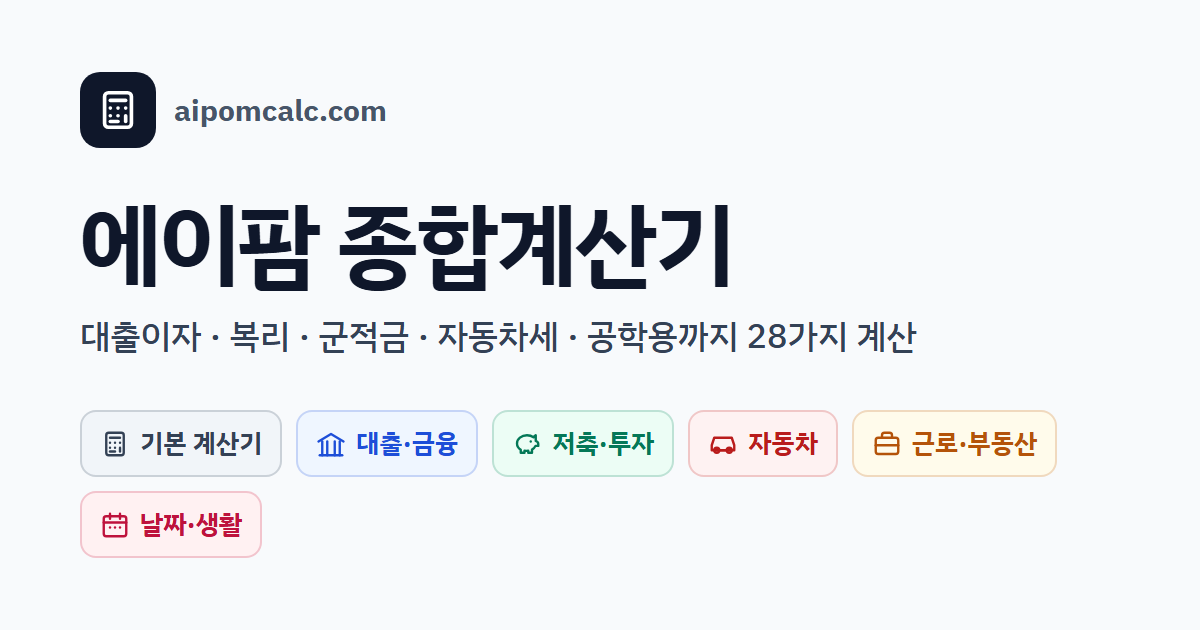
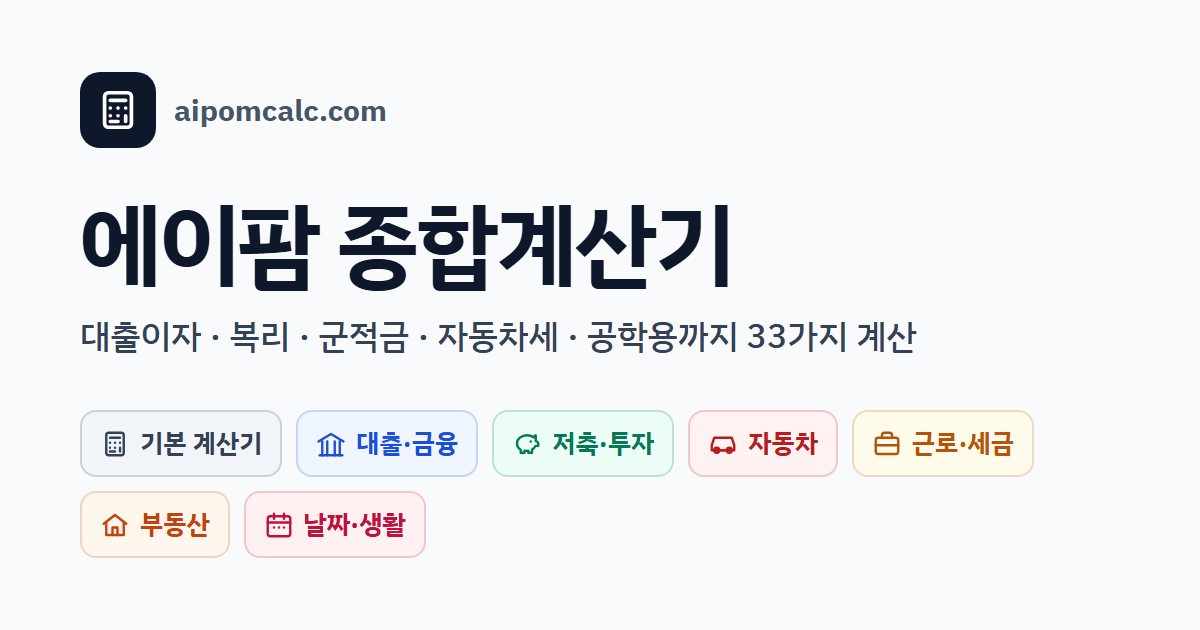
계산기 사이트: 구글 애널리틱스 태그, 문의 폼·감사 페이지(평균 1일 이내 답변), 계산기별 공유 썸네일, 전 계산기 FAQ 3개+, 개인정보처리방침 개정, 종소세 카드 제목 축약

Changed region(s): [[0.0617, 0.754, 0.3392, 0.9048], [0.8017, 0.6635, 0.8633, 0.7238], [0.6167, 0.5127, 0.6783, 0.573]]

diff --git a/sites/calc/faq-more.js b/sites/calc/faq-more.js
@@ -1,0 +1,60 @@
+// 자주 묻는 질문 보강 (2026-10-22) — 모든 계산기 최소 3개. 답은 각 페이지 basis·tips·출처에 있는 사실만.
+// pages.js 가 불러와 기존 faq 뒤에 붙인다. 계산기별 기존 질문과 겹치지 않게 쓴다.
+module.exports = {
+  basic: [['계산 기록은 어디에 저장되나요?', '이 기기의 브라우저에만 저장됩니다. 사이트 아래 "저장 기록 지우기"로 언제든 지울 수 있습니다.']],
+  scientific: [['deg와 rad 중 무엇을 써야 하나요?', '각도를 도(°)로 쓰면 deg, 라디안(π 단위)으로 쓰면 rad를 고르세요. deg에서 sin(30)은 0.5입니다.']],
+  dsr: [['DSR 40%는 무슨 뜻인가요?', '1년 동안 갚는 모든 대출 원리금이 연소득의 40%라는 뜻입니다. 연소득 5천만 원이면 연 2천만 원입니다.'],
+    ['은행 계산과 다른 이유는?', '은행은 대출 종류별 만기 가정과 스트레스 금리 등 감독 규정을 적용합니다. 이 계산기는 각 대출의 첫 1년 원리금으로 단순 계산합니다.']],
+  prepay: [['부과 기간이 지나면 수수료는요?', '대출받은 뒤 지난 기간이 수수료 부과 기간(예: 36개월) 이상이면 수수료는 0원으로 계산됩니다.'],
+    ['수수료가 면제되는 경우도 있나요?', '상품마다 다릅니다. 연간 일정 금액까지 면제하는 상품도 있으니 대출 계약서·상품설명서를 확인하세요.']],
+  installment: [['무이자 할부도 계산되나요?', '수수료율을 0%로 넣으면 원금 ÷ 개월 수가 그대로 월 납입금이 됩니다.'],
+    ['할부 수수료율은 어디서 보나요?', '카드사 앱·홈페이지의 할부 수수료율 안내나 이용대금 명세서에서 확인할 수 있습니다.']],
+  savings: [['적금 이자가 생각보다 적은 이유는?', '매달 넣은 돈마다 이자 받는 기간이 달라, 마지막 회차는 1개월 이자만 받기 때문입니다. 12개월 적금의 세전 이자는 총 납입액 × 연 이율 × 13/24 정도입니다.'],
+    ['예금과 적금 중 어느 쪽 이자가 많나요?', '같은 금리·같은 총액이면 처음부터 전액이 이자를 받는 예금이 더 많습니다.']],
+  compound: [['72의 법칙이 뭔가요?', '72를 연 수익률(%)로 나누면 원금이 두 배가 되는 대략의 햇수입니다. 연 6%면 약 12년입니다.']],
+  military: [['한 달에 최대 얼마까지 넣을 수 있나요?', '개인 기준 월 55만 원까지이고, 계좌당 월 30만 원, 1인 2계좌(같은 은행 불가)입니다.']],
+  'car-loan': [['유예(잔가) 할부도 계산되나요?', '아니요. 마지막에 큰 금액을 내는 유예 할부는 계산 방식이 달라 금융사 견적서를 확인하세요.'],
+    ['취득세·보험료도 포함인가요?', '아니요. 취득세·탁송료·보험료는 별도입니다. 취득세는 <a href="/car-acq/">자동차 취등록세 계산기</a>로 계산할 수 있습니다.']],
+  'car-tax': [['전기차 자동차세는 얼마인가요?', '전기·수소차 등 "그 밖의 승용자동차"는 비영업용 연 10만 원이고, 지방교육세 30%가 함께 붙습니다.']],
+  severance: [['1년 미만 일하면 퇴직금이 없나요?', '네. 계속 근로 기간이 1년 미만이면 법정 퇴직금 지급 의무가 없습니다.']],
+  rent: [['기준금리는 어디서 확인하나요?', '한국은행 홈페이지의 기준금리 추이에서 확인할 수 있습니다. 기준금리가 바뀌면 입력값을 바꿔 넣으세요.'],
+    ['새 계약에도 이 상한이 적용되나요?', '아니요. 계약 기간 중 보증금을 월세로 바꿀 때 적용됩니다. 새 계약은 당사자 합의로 정합니다.']],
+  area: [['1평은 몇 ㎡인가요?', '1평은 400/121㎡, 약 3.3058㎡입니다.'],
+    ['34평형 아파트의 전용면적은?', '"34평형"은 보통 공용면적을 더한 공급면적 기준이고, 전용면적은 84㎡(약 25.4평)인 경우가 많습니다.'],
+    ['공식 서류에 평을 써도 되나요?', '법정 단위는 ㎡입니다. 평은 참고용 환산값으로만 쓰세요.']],
+  dday: [['100일은 언제인가요?', '시작일을 1일째로 세면 시작일 + 99일이 100일째입니다.'],
+    ['D-day와 D-1은 어떻게 달라요?', '목표일 당일이 D-day(D-0)이고, 그 하루 전이 D-1입니다.'],
+    ['윤년도 반영되나요?', '네. 2월 29일이 있는 해를 포함해 실제 달력으로 셉니다.']],
+  age: [['만 나이는 언제부터 쓰나요?', '2023년 6월 28일부터 법령·계약·공문서의 나이는 원칙적으로 만 나이입니다(행정기본법 제7조의2).'],
+    ['연 나이는 어디에 쓰나요?', '병역법·청소년보호법 등 일부 법은 "올해 − 출생 연도"인 연 나이를 씁니다.'],
+    ['생일 당일에 나이가 바뀌나요?', '네. 만 나이는 생일 당일부터 한 살 늘어납니다.']],
+  percent: [['%와 %p는 뭐가 다른가요?', '금리 3%가 4%가 되면 1%p 오른 것이고, 비율로는 약 33% 오른 것입니다.'],
+    ['할인을 두 번 받으면 몇 %인가요?', '10% 할인 후 10%를 더 할인하면 총 19% 할인입니다(0.9 × 0.9 = 0.81).']],
+  charcount: [['자기소개서는 공백 포함인가요?', '대부분 공백 포함 기준이지만 기관마다 다르니 공고문을 먼저 확인하세요.'],
+    ['바이트 수가 두 개인 이유는?', 'UTF-8에서는 한글 1자가 3바이트이고, 문자 메시지 등에서 쓰는 방식은 한글 1자를 2바이트로 셉니다. 두 값을 함께 보여 드립니다.']],
+  refinance: [['본전 회수 기간이 뭔가요?', '갈아탈 때 드는 수수료와 비용을 줄어든 월 상환액으로 나눈 기간입니다. 이보다 오래 갚을 계획이면 이득입니다.'],
+    ['수수료 부과 기간이 곧 끝나면?', '몇 달만 기다리면 수수료가 줄거나 없어지므로 기다렸다 갈아타는 편이 나을 수 있습니다. "부과 기간 남은 개월"을 바꿔 비교해 보세요.']],
+  goal: [['수익률은 얼마로 넣어야 하나요?', '예·적금 금리 수준으로 보수적으로 넣으세요. 투자 수익률은 보장되지 않습니다.'],
+    ['세금도 반영되나요?', '아니요. 이자소득세(일반 15.4%)는 빠져 있어 실제로는 조금 더 모아야 합니다.'],
+    ['기간을 늘리면 얼마나 줄어드나요?', '결과 아래 "기간별 필요 월 적립액" 표에서 3~20년을 한눈에 비교할 수 있습니다.']],
+  avgprice: [['평단가는 어떻게 계산하나요?', '총 매입액을 총 수량으로 나눕니다. 1만 원에 10주, 8천 원에 10주를 샀다면 평단가는 9천 원입니다.'],
+    ['수수료와 세금도 포함되나요?', '아니요. 매매 수수료와 세금은 빠져 있어 실제 손익은 증권사 앱에서 확인하세요.'],
+    ['물타기를 하면 무조건 유리한가요?', '평단가는 내려가지만 투자 금액과 위험도 함께 커집니다. 이 계산기는 계산 도구이며 투자 권유가 아닙니다.']],
+  'car-acq': [['차량 가격은 부가세 포함인가요?', '아니요. 부가세를 뺀 공급가액(할인 반영)으로 계산합니다. 계약서의 공급가액을 넣으세요.'],
+    ['경차는 취득세가 없나요?', '취득세가 75만 원까지 감면되어, 차값이 약 1,875만 원 이하면 0원입니다.'],
+    ['공채 비용도 포함인가요?', '아니요. 지역개발·도시철도 공채 비용은 지역마다 달라 빠져 있습니다.']],
+  salary: [['비과세 식대는 얼마까지인가요?', '2026년 기준 식대는 월 20만 원까지 비과세입니다. "월 비과세액"에 넣으세요.']],
+  unemployment: [['하루 최대 얼마를 받나요?', '2026년 1일 상한은 68,100원입니다. 평균임금의 60%가 이보다 많아도 68,100원을 받습니다.'],
+    ['언제까지 신청해야 하나요?', '퇴사 다음 날부터 12개월 안에만 받을 수 있어, 퇴사 후 바로 고용24에서 신청하는 것이 좋습니다.']],
+  vat: [['합계금액에서 부가세만 빼려면?', '합계를 1.1로 나누면 공급가액이고, 합계 − 공급가액이 부가세입니다. 110만 원이면 공급가액 100만 원, 부가세 10만 원입니다.'],
+    ['"부가세 별도"는 무슨 뜻인가요?', '표시된 금액이 공급가액이라 10%를 더 내야 한다는 뜻입니다.'],
+    ['간이과세자도 10%인가요?', '간이과세자의 실제 납부세액은 업종별 부가가치율을 적용해 따로 계산합니다.']],
+  subscription: [['만점은 몇 점인가요?', '무주택 기간 32점 + 부양가족 35점 + 통장 가입기간 17점 = 84점입니다.'],
+    ['배우자 통장 기간도 더하나요?', '네. 배우자 통장 가입기간 점수의 50%(최대 3점)를 더하되, 통장 점수 합계는 17점을 넘지 않습니다.']],
+  bmi: [['정상 BMI는 얼마인가요?', '대한비만학회 기준 18.5~22.9가 정상이고, 25 이상이 비만입니다.'],
+    ['근육이 많으면 어떻게 나오나요?', 'BMI는 근육과 지방을 구분하지 못해 근육이 많으면 비만으로 나올 수 있습니다. 허리둘레도 함께 보세요.'],
+    ['복부비만 기준은?', '허리둘레 남성 90cm, 여성 85cm 이상입니다(대한비만학회).']],
+  winrate: [['KBO 승률은 어떻게 계산하나요?', '무승부를 빼고 승 ÷ (승 + 패)로 계산합니다. "빼고 계산 (KBO 방식)"을 고르세요.']],
+  brokerage: [['중개보수는 누가 내나요?', '거래 양쪽(파는 사람과 사는 사람, 집주인과 세입자)이 각각 상한 안에서 냅니다.']],
+  electricity: [['7·8월엔 왜 덜 나오나요?', '하계에는 누진 구간이 1단계 300kWh, 2단계 450kWh까지로 넓어져 같은 사용량에도 낮은 단가가 적용됩니다.']],
+};

diff --git a/sites/calc/pages.js b/sites/calc/pages.js
@@ -18,15 +18,18 @@ module.exports = [
   { slug: 'about', short: '사이트 소개', title: '사이트 소개 | 에이팜 종합계산기', desc: '에이팜 종합계산기 소개와 계산 원칙.', h1: '사이트 소개',
     summary: '생활 속 돈·날짜 계산을 빠르고 정확하게 하도록 만든 무료 계산기 모음입니다.',
     tips: [['계산식 공개', '모든 계산기 아래 "계산 기준"에 식과 가정을 적어 둡니다.'], ['출처 확인', '법정 기준·정부 제도는 법령·기관 안내로 확인한 값만 씁니다.'], ['내 기기에서만', '입력값은 서버로 보내지 않고 브라우저 안에서 계산·저장합니다.'], ['자동 검산', '공개된 예시값으로 계산 결과를 매번 테스트합니다.']],
-    extra: `<section class="card"><h2>문의</h2><p>오류 제보·제안·기타 문의: <a href="mailto:${CONTACT}">${CONTACT}</a></p></section>` },
-  { slug: 'privacy', short: '개인정보처리방침', title: '개인정보처리방침 | 에이팜 종합계산기', desc: '에이팜 종합계산기 개인정보처리방침.', h1: '개인정보처리방침',
-    summary: '시행일: 2026년 10월 21일',
+    extra: `<section class="card"><h2>문의</h2><p>오류 제보·계산기 제안·기타 문의는 <a href="/contact/">문의하기</a>에서 보내 주세요. 평균 1일 이내에 답변드립니다. 이메일: <a href="mailto:${CONTACT}">${CONTACT}</a></p></section>` },
+  { slug: 'privacy', short: '개인정보처리방침', title: '개인정보처리방침 | 에이팜 종합계산기', desc: '에이팜 종합계산기 개인정보처리방침 — 수집 항목, 문의 처리, 쿠키·광고, 방문 통계.', h1: '개인정보처리방침',
+    summary: '시행일: 2026년 10월 22일',
     extra: `<section class="card prose">
-<h2>1. 수집하는 개인정보</h2><p>회원가입이 없으며 계산기 입력값을 수집·전송하지 않습니다. 즐겨찾기·최근 사용·입력값·계산 기록은 이용자 브라우저 저장소(localStorage)에만 남고, 브라우저 설정이나 사이트의 "저장 기록 지우기"로 언제든 지울 수 있습니다.</p>
-<h2>2. 쿠키와 광고</h2><p>Google AdSense 등 제3자 광고를 게재할 수 있습니다. 이 경우 Google을 포함한 제3자 공급업체가 쿠키를 사용해 이용자의 이 사이트 및 다른 사이트 방문 기록을 바탕으로 광고를 게재할 수 있습니다. <a href="https://adssettings.google.com" rel="noopener">Google 광고 설정</a>에서 맞춤 광고를 끌 수 있습니다.</p>
-<h2>3. 방문 통계</h2><p>개인을 식별하지 않는 통계 도구를 쓸 수 있으며, 도입 시 이 방침에 이름을 추가합니다.</p>
-<h2>4. 문의</h2><p><a href="mailto:${CONTACT}">${CONTACT}</a></p>
-<h2>5. 변경</h2><p>방침이 바뀌면 이 페이지에 시행일과 함께 공지합니다.</p></section>` },
+<h2>1. 계산기 이용</h2><p>회원가입이 없으며 계산기 입력값을 수집·전송하지 않습니다. 즐겨찾기·최근 사용·입력값·계산 기록은 이용자 브라우저 저장소(localStorage)에만 남고, 브라우저 설정이나 사이트 아래 "저장 기록 지우기"로 언제든 지울 수 있습니다.</p>
+<h2>2. 문의하기로 받는 정보</h2><p><b>항목</b>: 답변 받을 이메일(필수), 이름(선택), 문의 종류·관련 계산기·문의 내용. <b>목적</b>: 문의 확인과 답변. <b>보관</b>: 답변을 마친 뒤 1년 이내에 지웁니다. 이용자가 요청하면 바로 지웁니다.</p>
+<p><b>처리 위탁</b>: 문의 양식은 FormSubmit(formsubmit.co)을 거쳐 운영자 이메일(Gmail)로 전달됩니다. 동의하지 않으면 문의를 보내지 않거나 이메일(<a href="mailto:${CONTACT}">${CONTACT}</a>)로 직접 보내실 수 있습니다.</p>
+<h2>3. 쿠키와 광고</h2><p>Google AdSense 등 제3자 광고를 게재할 수 있습니다. 이 경우 Google을 포함한 제3자 공급업체가 쿠키를 사용해 이용자의 이 사이트 및 다른 사이트 방문 기록을 바탕으로 광고를 게재할 수 있습니다. <a href="https://adssettings.google.com" rel="noopener">Google 광고 설정</a>에서 맞춤 광고를 끌 수 있습니다.</p>
+<h2>4. 방문 통계</h2>${process.env.GA_ID ? '<p>사이트 개선을 위해 Google 애널리틱스 4를 씁니다. 쿠키로 방문 페이지, 머문 시간, 기기·브라우저 종류, 대략적인 지역 같은 정보를 모으며 이름·이메일 등 개인을 바로 알아볼 수 있는 정보는 모으지 않습니다. <a href="https://tools.google.com/dlpage/gaoptout" rel="noopener">Google 애널리틱스 차단 부가 기능</a>이나 브라우저 쿠키 설정으로 거부할 수 있습니다.</p>' : '<p>현재 방문 통계 도구를 쓰지 않습니다. 도입하면 이 방침에 이름과 수집 항목을 추가합니다.</p>'}
+<h2>5. 이용자의 권리</h2><p>문의하며 보낸 정보의 열람·정정·삭제를 <a href="/contact/">문의하기</a>나 이메일로 요청할 수 있습니다.</p>
+<h2>6. 문의</h2><p><a href="/contact/">문의하기</a> · <a href="mailto:${CONTACT}">${CONTACT}</a> (평균 1일 이내 답변)</p>
+<h2>7. 변경</h2><p>방침이 바뀌면 이 페이지에 시행일과 함께 공지합니다.</p></section>` },
 
   // ── 기본 계산기 ──
   { slug: 'basic', calc: 'basic', cat: 'basic', tone: 'slate', icon: 'calculator', short: '일반 계산기', lead: '휴대폰 계산기처럼 바로 계산', pad: 'basic',
@@ -165,4 +168,29 @@ module.exports = [
     basis: ['만 나이: 행정기본법 제7조의2(2023.6.28 시행). 연 나이 = 기준 연도 − 출생 연도, 세는 나이 = 연 나이 + 1.'] },
 ];
 module.exports.push(...require('./pages-more')(f, sel, form));
+const FAQ_MORE = require('./faq-more'); // 모든 계산기 FAQ 최소 3개
+for (const p of module.exports) if (FAQ_MORE[p.slug]) p.faq = [...(p.faq || []), ...FAQ_MORE[p.slug]];
+const CALC_OPTS = module.exports.filter((p) => p.calc).map((p) => `<option value="${p.short}" data-slug="${p.slug}">${p.short}</option>`).join('');
+const SITE = (process.env.SITE_URL || 'https://aipomcalc.com').replace(/\/$/, '');
+module.exports.push(
+  { slug: 'contact', short: '문의하기', title: '문의하기 | 에이팜 종합계산기', desc: '계산 오류 제보, 새 계산기 제안, 광고·제휴 문의를 보내 주세요. 평균 1일 이내에 답변드립니다.', h1: '문의하기',
+    summary: '계산이 틀렸거나 바라는 계산기가 있으면 알려 주세요. <b>평균 1일 이내</b>에 이메일로 답변드립니다.',
+    extra: `<section class="card"><form class="contact" action="https://formsubmit.co/${CONTACT}" method="POST">
+<input type="hidden" name="_subject" value="[에이팜 종합계산기] 새 문의"><input type="hidden" name="_template" value="table"><input type="hidden" name="_next" value="${SITE}/contact/thanks/">
+<input type="text" name="_honey" class="hp" tabindex="-1" autocomplete="off" aria-hidden="true">
+<div class="form">
+<label class="f"><span class="fl">답변 받을 이메일 (필수)</span><input id="c-email" type="email" name="email" required autocomplete="email" placeholder="you@example.com"></label>
+<label class="f"><span class="fl">이름 (선택)</span><input id="c-name" type="text" name="이름" autocomplete="name"></label>
+<label class="f"><span class="fl">문의 종류</span><select id="c-kind" name="문의 종류"><option>계산 오류 제보</option><option>새 계산기 제안</option><option>사용 중 불편한 점</option><option>광고·제휴</option><option>기타</option></select></label>
+<label class="f"><span class="fl">관련 계산기 (선택)</span><select id="c-calc" name="관련 계산기"><option value="">선택 안 함</option>${CALC_OPTS}</select></label>
+<label class="f wide"><span class="fl">문의 내용 (필수)</span><textarea id="c-msg" name="문의 내용" rows="8" required minlength="10" placeholder="예: 연봉 5,000만 원을 넣었는데 실수령액이 회사 명세서와 3만 원 차이가 나요."></textarea></label>
+</div>
+<label class="agree"><input id="c-agree" type="checkbox" name="개인정보 수집 동의" value="동의함" required><span>답변을 위해 이메일·문의 내용을 수집하는 데 동의합니다. (<a href="/privacy/">개인정보처리방침</a> — 답변 후 1년 이내 삭제)</span></label>
+<p><button class="btn" type="submit">문의 보내기</button></p>
+<p class="muted">보내기를 누르면 스팸 방지 확인 화면이 한 번 나올 수 있습니다. 이메일로 직접 보내셔도 됩니다: <a href="mailto:${CONTACT}">${CONTACT}</a></p>
+</form></section>` },
+  { slug: 'contact/thanks', short: '문의 완료', noindex: true, title: '문의를 보냈어요 | 에이팜 종합계산기', desc: '문의가 접수되었습니다.', h1: '문의를 보냈어요. 감사합니다!',
+    summary: '보내 주신 내용을 잘 받았습니다. <b>평균 1일 이내</b>에 적어 주신 이메일로 답변드립니다.',
+    extra: '<section class="card"><p>답장이 안 보이면 스팸함도 확인해 주세요. 급한 내용은 이메일로 다시 보내 주셔도 됩니다.</p><p><a class="btn" href="/">계산기 홈으로</a></p></section>' },
+);
 module.exports.CONTACT = CONTACT;

diff --git a/sites/calc/build.js b/sites/calc/build.js
@@ -11,8 +11,9 @@ const ROOT = __dirname, OUT = path.join(ROOT, 'public');
 const SITE = (process.env.SITE_URL || 'https://aipomcalc.com').replace(/\/$/, '');
 const PUB = (process.env.ADSENSE_PUB || '').replace(/^ca-/, '');
 const GSC = process.env.GSC_VERIFY || ''; // 구글 서치 콘솔 소유권 확인 값
+const GA = /^G-[A-Z0-9]+$/.test(process.env.GA_ID || '') ? process.env.GA_ID : ''; // 구글 애널리틱스 4 측정 ID (없으면 코드 안 넣음)
 const NAME = '에이팜 종합계산기';
-const UPDATED = '2026-10-21';
+const UPDATED = '2026-10-22';
 const esc = (s) => String(s).replace(/&/g, '&amp;').replace(/</g, '&lt;').replace(/"/g, '&quot;');
 const pages = require('./pages');
 const { CONTACT } = require('./pages');
@@ -38,13 +39,22 @@ const INDEX = calcs.map((p) => ({ s: p.slug, n: p.short, l: p.lead, c: p.cat, t:
 
 const head = (p) => `<!doctype html>
 <html lang="ko"><head>
-<meta charset="utf-8"><meta name="viewport" content="width=device-width,initial-scale=1">
+${GA ? `<!-- Google tag (gtag.js) -->
+<script async src="https://www.googletagmanager.com/gtag/js?id=${GA}"></script>
+<script>
+  window.dataLayer = window.dataLayer || [];
+  function gtag(){dataLayer.push(arguments);}
+  gtag('js', new Date());
+
+  gtag('config', '${GA}');
+</script>
+` : ''}<meta charset="utf-8"><meta name="viewport" content="width=device-width,initial-scale=1">
 <title>${esc(p.title)}</title>
 <meta name="description" content="${esc(p.desc)}">
-<link rel="canonical" href="${url(p)}">
+<link rel="canonical" href="${url(p)}">${p.noindex ? '<meta name="robots" content="noindex">' : ''}
 <meta property="og:type" content="website"><meta property="og:site_name" content="${NAME}"><meta property="og:locale" content="ko_KR">
 <meta property="og:title" content="${esc(p.title)}"><meta property="og:description" content="${esc(p.desc)}"><meta property="og:url" content="${url(p)}">
-<meta property="og:image" content="${SITE}/assets/og.png"><meta property="og:image:width" content="1200"><meta property="og:image:height" content="630"><meta name="twitter:card" content="summary_large_image">
+<meta property="og:image" content="${SITE}/assets/${p.calc && fs.existsSync(path.join(ROOT, 'assets', 'og', p.slug + '.png')) ? 'og/' + p.slug : 'og'}.png"><meta property="og:image:alt" content="${esc(p.short || NAME)}"><meta property="og:image:width" content="1200"><meta property="og:image:height" content="630"><meta name="twitter:card" content="summary_large_image">
 <link rel="icon" href="/assets/icon.svg" type="image/svg+xml"><link rel="icon" href="/assets/icon-32.png" sizes="32x32"><link rel="apple-touch-icon" href="/assets/icon-180.png">
 <link rel="manifest" href="/manifest.webmanifest"><meta name="theme-color" content="#0f172a">
 <script>try{var t=localStorage.getItem('ac-theme');if(t)document.documentElement.dataset.theme=t;var z=localStorage.getItem('ac-zoom');if(z)document.documentElement.dataset.zoom=z}catch(e){}</script>
@@ -71,7 +81,7 @@ const header = () => `<a class="skip" href="#main">본문 바로가기</a>
 
 const footer = () => `<footer class="foot"><div class="wrap">
 <div class="foot-grid"><div><b>${NAME}</b><p>모든 계산은 참고용이며 금융상품 가입·투자 권유가 아닙니다. 최종 금액은 해당 기관에 확인하세요.</p></div>
-<div class="foot-links"><a href="/about/">사이트 소개</a><a href="/privacy/">개인정보처리방침</a><a href="mailto:${CONTACT}">오류·문의: ${CONTACT}</a><button type="button" class="linkbtn" data-clear-storage>저장 기록 지우기</button></div></div>
+<div class="foot-links"><a href="/about/">사이트 소개</a><a href="/privacy/">개인정보처리방침</a><a href="/contact/">문의하기 (평균 1일 이내 답변)</a><a href="mailto:${CONTACT}">${CONTACT}</a><button type="button" class="linkbtn" data-clear-storage>저장 기록 지우기</button></div></div>
 <p class="muted">최종 업데이트 ${UPDATED}</p></div></footer>
 <button class="totop" type="button" data-totop aria-label="맨 위로">${icon('up')}</button>
 <div class="toast" role="status" aria-live="polite" id="toast"></div>
@@ -98,7 +108,7 @@ ${kind === 'sci' ? keys(S, 'sci') : ''}${keys(B, 'basic')}
 <section class="card hist"><div class="hist-h"><h2>계산 기록</h2><button type="button" class="linkbtn" data-clear-history>지우기</button></div><ol id="history" class="history"></ol></section></div>`;
 };
 
-const tile = (q) => `<a class="tile" href="/${q.slug}/" data-tone="${q.tone}"><span class="tic">${icon(q.icon)}</span><span class="tt"><b>${q.short}</b><small>${q.lead}</small></span></a>`;
+const tile = (q) => `<a class="tile" href="/${q.slug}/" data-tone="${q.tone}"><span class="tic">${icon(q.icon)}</span><span class="tt"><b>${q.tileName || q.short}</b><small>${q.lead}</small></span></a>`;
 
 function calcPage(p) {
   const cat = CATS.find((c) => c.id === p.cat);
@@ -124,6 +134,7 @@ ${actions(p)}
 ${tipsBlock(p.tips)}
 ${basisBlock(p)}
 ${faqBlock(p.faq)}
+<p class="report"><a href="/contact/?calc=${p.slug}">이 계산기에 틀린 곳이나 바라는 점이 있나요? 알려 주세요 →</a></p>
 <section class="related"><h2>함께 쓰면 좋은 계산기</h2><div class="tiles">${related.map(tile).join('')}</div></section>
 </main>
 ${p.pad ? '' : '<a class="mini" href="#out" data-mini hidden><span></span><b></b></a>'}
@@ -160,7 +171,7 @@ ${footer()}
 // ── 출력 ──
 fs.rmSync(OUT, { recursive: true, force: true });
 fs.mkdirSync(path.join(OUT, 'assets'), { recursive: true });
-for (const f of fs.readdirSync(path.join(ROOT, 'assets'))) fs.copyFileSync(path.join(ROOT, 'assets', f), path.join(OUT, 'assets', f));
+fs.cpSync(path.join(ROOT, 'assets'), path.join(OUT, 'assets'), { recursive: true }); // og/ 하위 폴더 포함
 for (const p of pages) {
   const html = p.slug === '' ? homePage(p) : p.calc ? calcPage(p) : infoPage(p);
   const dir = path.join(OUT, p.slug);
@@ -170,7 +181,7 @@ for (const p of pages) {
 const p404 = { slug: '404', short: '페이지 없음', title: `페이지를 찾을 수 없어요 | ${NAME}`, desc: '요청한 페이지가 없습니다.', h1: '페이지를 찾을 수 없어요', summary: '주소가 바뀌었거나 없는 페이지입니다. 위의 검색으로 계산기를 찾아보세요.', extra: '<p class="near" id="near" hidden></p><p><a class="btn" href="/">홈으로</a></p>' };
 fs.writeFileSync(path.join(OUT, '404.html'), infoPage(p404).replace('<meta name="description"', '<meta name="robots" content="noindex"><meta name="description"'), 'utf8');
 fs.writeFileSync(path.join(OUT, 'manifest.webmanifest'), JSON.stringify({ name: NAME, short_name: '종합계산기', start_url: '/', display: 'standalone', background_color: '#f8fafc', theme_color: '#0f172a', lang: 'ko', icons: [{ src: '/assets/icon-180.png', sizes: '180x180', type: 'image/png' }, { src: '/assets/icon-512.png', sizes: '512x512', type: 'image/png' }] }), 'utf8');
-fs.writeFileSync(path.join(OUT, 'sitemap.xml'), `<?xml version="1.0" encoding="UTF-8"?>\n<urlset xmlns="http://www.sitemaps.org/schemas/sitemap/0.9">\n${pages.map((p) => `<url><loc>${url(p)}</loc><lastmod>${UPDATED}</lastmod></url>`).join('\n')}\n</urlset>\n`, 'utf8');
+fs.writeFileSync(path.join(OUT, 'sitemap.xml'), `<?xml version="1.0" encoding="UTF-8"?>\n<urlset xmlns="http://www.sitemaps.org/schemas/sitemap/0.9">\n${pages.filter((p) => !p.noindex).map((p) => `<url><loc>${url(p)}</loc><lastmod>${UPDATED}</lastmod></url>`).join('\n')}\n</urlset>\n`, 'utf8');
 fs.writeFileSync(path.join(OUT, 'robots.txt'), `User-agent: *\nAllow: /\nSitemap: ${SITE}/sitemap.xml\n`, 'utf8');
 if (PUB) fs.writeFileSync(path.join(OUT, 'ads.txt'), `google.com, ${PUB}, DIRECT, f08c47fec0942fa0\n`, 'utf8');
 const host = SITE.replace(/^https?:\/\//, '');

diff --git a/sites/calc/brand/make-brand.js b/sites/calc/brand/make-brand.js
@@ -1,11 +1,23 @@
 // 종합계산기 대표 이미지(og 1200x630)·아이콘(svg, 32/180/512) — 새 디자인(Swiss·카테고리 색)과 같은 톤
-// 사용: node sites/calc/brand/make-brand.js   → sites/calc/assets/
+// 사용: node sites/calc/brand/make-brand.js   → sites/calc/assets/ (계산기별 공유 썸네일은 assets/og/<slug>.png)
 const { chromium } = require('playwright');
 const path = require('path'), fs = require('fs');
 const OUT = path.join(__dirname, '..', 'assets');
 const ICONS = require('../icons');
-const n = require('../pages').filter((p) => p.calc).length;
-const CATS = [['기본 계산기', '#334155', '#f1f5f9', 'calculator'], ['대출·금융', '#1d4ed8', '#eff6ff', 'landmark'], ['저축·투자', '#047857', '#ecfdf5', 'piggy'], ['자동차', '#b91c1c', '#fef2f2', 'car'], ['근로·부동산', '#b45309', '#fffbeb', 'briefcase'], ['날짜·생활', '#be123c', '#fff1f2', 'calendar']];
+const CALCS = require('../pages').filter((p) => p.calc), n = CALCS.length;
+// 계산기 색: style.css 의 [data-tone] 정의를 그대로 읽는다
+const TONES = Object.fromEntries([...fs.readFileSync(path.join(__dirname, '..', 'assets', 'style.css'), 'utf8').matchAll(/\[data-tone="(\w+)"\]\s*\{ --tb: (#\w+); --tsb: (#\w+); \}/g)].map((m) => [m[1], [m[2], m[3]]]));
+const CATNAME = { basic: '기본 계산기', loan: '대출·금융', save: '저축·투자', car: '자동차', work: '근로·세금', home: '부동산', life: '날짜·생활' };
+const esc = (t) => String(t).replace(/&/g, '&amp;').replace(/</g, '&lt;');
+const ogCalc = (p) => { const [c, bg] = TONES[p.tone] || ['#0f172a', '#f1f5f9']; const t = p.short;
+  return `<div id="b" style="width:1200px;height:630px;background:#f8fafc;font-family:'IBM Plex Sans KR';color:#0f172a;padding:64px 80px;display:flex;flex-direction:column;justify-content:space-between;border-top:14px solid ${c}">
+ <div style="display:flex;align-items:center;justify-content:space-between"><div style="display:flex;align-items:center;gap:16px"><div style="width:64px;height:64px;border-radius:18px;background:#0f172a;display:grid;place-items:center">${svgIcon('calculator', '#fff', 38)}</div><div style="font-size:28px;font-weight:700;color:#475569">에이팜 종합계산기</div></div>
+  <div style="background:${bg};border:2px solid ${c}33;border-radius:14px;padding:10px 18px;font-size:24px;font-weight:700;color:${c}">${CATNAME[p.cat]}</div></div>
+ <div style="display:flex;align-items:center;gap:36px"><div style="flex:none;width:150px;height:150px;border-radius:36px;background:${c};display:grid;place-items:center">${svgIcon(p.icon, '#fff', 88)}</div>
+  <div style="min-width:0"><div style="font-size:${t.length > 14 ? 64 : 78}px;font-weight:700;letter-spacing:-.03em;line-height:1.12;word-break:keep-all">${esc(t)}</div><div style="font-size:34px;font-weight:500;color:#334155;margin-top:14px;word-break:keep-all">${esc(p.lead)}</div></div></div>
+ <div style="display:flex;justify-content:space-between;font-size:26px;font-weight:500;color:#475569"><span>무료 · 회원가입 없이 바로 계산</span><b style="color:${c}">aipomcalc.com</b></div>
+</div>`; };
+const CATS = [['기본 계산기', '#334155', '#f1f5f9', 'calculator'], ['대출·금융', '#1d4ed8', '#eff6ff', 'landmark'], ['저축·투자', '#047857', '#ecfdf5', 'piggy'], ['자동차', '#b91c1c', '#fef2f2', 'car'], ['근로·세금', '#b45309', '#fffbeb', 'briefcase'], ['부동산', '#c2410c', '#fff7ed', 'home'], ['날짜·생활', '#be123c', '#fff1f2', 'calendar']];
 const svgIcon = (k, color, size) => `<svg width="${size}" height="${size}" viewBox="0 0 24 24" fill="none" stroke="${color}" stroke-width="1.9" stroke-linecap="round" stroke-linejoin="round">${ICONS[k]}</svg>`;
 const FONT = '<link href="https://fonts.googleapis.com/css2?family=IBM+Plex+Sans+KR:wght@500;700&display=swap" rel="stylesheet">';
 
@@ -25,6 +37,12 @@ const iconSvg = `<svg xmlns="http://www.w3.org/2000/svg" viewBox="0 0 64 64"><re
   await pg.setContent(`<!doctype html><meta charset="utf-8">${FONT}<style>*{margin:0;box-sizing:border-box}</style>${og}`, { waitUntil: 'networkidle' });
   await pg.evaluate(() => document.fonts.ready);
   await pg.locator('#b').screenshot({ path: path.join(OUT, 'og.png') });
+  fs.mkdirSync(path.join(OUT, 'og'), { recursive: true });
+  for (const p of CALCS) {
+    await pg.setContent(`<!doctype html><meta charset="utf-8">${FONT}<style>*{margin:0;box-sizing:border-box}</style>${ogCalc(p)}`, { waitUntil: 'networkidle' });
+    await pg.evaluate(() => document.fonts.ready);
+    await pg.locator('#b').screenshot({ path: path.join(OUT, 'og', p.slug + '.png') });
+  }
   fs.writeFileSync(path.join(OUT, 'icon.svg'), iconSvg);
   for (const s of [32, 180, 512]) {
     await pg.setViewportSize({ width: s, height: s });
@@ -32,5 +50,5 @@ const iconSvg = `<svg xmlns="http://www.w3.org/2000/svg" viewBox="0 0 64 64"><re
     await pg.locator('#i').screenshot({ path: path.join(OUT, `icon-${s}.png`), omitBackground: true });
   }
   await b.close();
-  console.log('✅ og.png · icon.svg · icon-32/180/512.png');
+  console.log(`✅ og.png · 계산기별 og/*.png ${CALCS.length}장 · icon.svg · icon-32/180/512.png`);
 })();

diff --git a/sites/calc/test/browser.test.js b/sites/calc/test/browser.test.js
@@ -11,7 +11,7 @@ const server = http.createServer((q, s) => {
   s.writeHead(200, { 'Content-Type': types[path.extname(f)] || 'application/octet-stream' }); fs.createReadStream(f).pipe(s);
 }).listen(8765);
 const U = (p) => `http://localhost:8765/${p ? p + '/' : ''}`;
-const SLUGS = ['', 'basic', 'scientific', 'loan', 'dsr', 'prepay', 'installment', 'savings', 'compound', 'military', 'car-loan', 'car-tax', 'severance', 'rent', 'area', 'dday', 'age', 'percent', 'charcount', 'refinance', 'goal', 'avgprice', 'car-acq', 'salary', 'wage', 'unemployment', 'vat', 'subscription', 'bmi', 'winrate', 'annual-leave', 'brokerage', 'freelance-tax', 'electricity', 'about', 'privacy'];
+const SLUGS = ['', 'basic', 'scientific', 'loan', 'dsr', 'prepay', 'installment', 'savings', 'compound', 'military', 'car-loan', 'car-tax', 'severance', 'rent', 'area', 'dday', 'age', 'percent', 'charcount', 'refinance', 'goal', 'avgprice', 'car-acq', 'salary', 'wage', 'unemployment', 'vat', 'subscription', 'bmi', 'winrate', 'annual-leave', 'brokerage', 'freelance-tax', 'electricity', 'about', 'privacy', 'contact', 'contact/thanks'];
 
 (async () => {
   const browser = await chromium.launch();
@@ -98,6 +98,22 @@ const SLUGS = ['', 'basic', 'scientific', 'loan', 'dsr', 'prepay', 'installment'
     ok(`[${tag}] 3.3% 수입 3천만 → 환급 455,180원`, (await main()).includes('455,180'), await main());
     await page.goto(U('electricity'), { waitUntil: 'networkidle' });
     ok(`[${tag}] 전기 350kWh → 70,640원 · 표 8행`, (await main()).includes('70,640') && (await page.locator('#tables tbody tr').count()) === 8, await main());
+
+    // SEO·문의 (2026-10-22)
+    await page.goto(U('contact') + '?calc=wage', { waitUntil: 'networkidle' });
+    ok(`[${tag}] 문의: ?calc=wage → 관련 계산기 미리 선택 · 감사 페이지로 이동 설정`, (await page.inputValue('#c-calc')) === '시급·주휴수당 계산기' && (await page.getAttribute('input[name=_next]', 'value')).endsWith('/contact/thanks/'));
+    ok(`[${tag}] 문의: 이메일·내용·동의 필수`, (await page.locator('#c-email[required], #c-msg[required], #c-agree[required]').count()) === 3);
+    await page.goto(U('contact/thanks'), { waitUntil: 'networkidle' });
+    ok(`[${tag}] 감사 페이지 noindex`, (await page.locator('meta[name=robots][content=noindex]').count()) === 1);
+    if (tag === 'pc') {
+      const bad = [];
+      for (const sl of SLUGS.filter((x) => x && !['about', 'privacy', 'contact', 'contact/thanks'].includes(x))) {
+        await page.goto(U(sl), { waitUntil: 'domcontentloaded' });
+        const n = await page.locator('.faq details').count(), og = await page.getAttribute('meta[property="og:image"]', 'content'), d = await page.getAttribute('meta[name=description]', 'content');
+        if (n < 3 || !og.endsWith('/og/' + sl + '.png') || !d || d.length < 40 || (await page.locator('nav.crumb').count()) !== 1 || (await page.locator('.related .tile').count()) < 3) bad.push(`${sl}(faq ${n}, og ${og.split('/').pop()})`);
+      }
+      ok(`[${tag}] 모든 계산기: FAQ 3개+ · 전용 썸네일 · 설명 · 탐색경로 · 관련 링크`, bad.length === 0, bad.join(', '));
+    }
 
     // 일반·공학용 계산기
     await page.goto(U('basic'), { waitUntil: 'networkidle' });

diff --git a/sites/calc/pages-more.js b/sites/calc/pages-more.js
@@ -150,7 +150,7 @@ module.exports = (f, sel, form) => [
     basis: ['공인중개사법 시행규칙 제20조(2021.10.19 시행), 한국공인중개사협회 중개보수 요율표. 주택 요율은 시·도 조례로 정합니다.', '주택 매매: 5천만 원 미만 0.6%(한도 25만 원), 2억 미만 0.5%(80만 원), 9억 미만 0.4%, 12억 미만 0.5%, 15억 미만 0.6%, 15억 이상 0.7%.', '주택 임대차: 5천만 원 미만 0.5%(20만 원), 1억 미만 0.4%(30만 원), 6억 미만 0.3%, 12억 미만 0.4%, 15억 미만 0.5%, 15억 이상 0.6%.', '오피스텔(전용 85㎡ 이하, 전용 부엌·화장실·목욕시설): 매매 0.5%, 임대차 0.4%. 그 밖의 오피스텔·토지·상가는 0.9% 이내에서 협의(계산은 0.9%). 1원 미만 절사.'],
     sources: [['한국공인중개사협회 — 중개보수 요율표', 'https://ma.kar.or.kr/m/contents.kar?page_id=5070&part=3']],
     faq: [['계산 결과보다 더 달라고 하면?', '상한을 넘는 중개보수는 받을 수 없습니다(공인중개사법 제33조). 관할 시·군·구청에 신고할 수 있습니다.'], ['분양권은요?', '거래 당시까지 낸 금액(융자 포함) + 프리미엄을 매매 가격에 넣으세요.']] },
-  { slug: 'freelance-tax', calc: 'freelance', cat: 'work', tone: 'indigo', icon: 'receipt', short: '3.3% 종합소득세 환급 계산기', lead: '프리랜서 단순경비율로 환급 예상',
+  { slug: 'freelance-tax', calc: 'freelance', cat: 'work', tone: 'indigo', icon: 'receipt', short: '3.3% 종합소득세 환급 계산기', tileName: '3.3% 종소세 환급 계산기', lead: '프리랜서 단순경비율로 환급 예상',
     title: '3.3% 종합소득세 환급 계산기 — 프리랜서·알바 단순경비율 환급액 | 에이팜 종합계산기',
     desc: '3.3%를 떼고 받은 1년 수입으로 5월 종합소득세를 단순경비율로 추정해 돌려받을 금액(또는 더 낼 금액)을 계산합니다. 업종코드 940909 기준 64.1%.',
     h1: '3.3% 종합소득세 환급 계산기', summary: '3.3%로 미리 뗀 세금이 실제 세금보다 많으면 5월 신고로 돌려받습니다. 수입이 적을수록 돌려받을 가능성이 큽니다.',

diff --git a/sites/calc/assets/style.css b/sites/calc/assets/style.css
@@ -266,3 +266,14 @@ details[open] > summary::after { content: '−'; }
 }
 .note.over { color: #dc2626; font-weight: 600; }
 .pct-grid .form, fieldset.sub.row .form { grid-template-columns: repeat(2, minmax(0, 1fr)); } /* 짧은 숫자 칸은 모바일에서도 2열 */
+
+/* 문의하기 (2026-10-22) */
+.contact .form { grid-template-columns: repeat(2, minmax(0, 1fr)); }
+.contact .f.wide { grid-column: 1 / -1; }
+.contact .hp { position: absolute; left: -9999px; width: 1px; height: 1px; opacity: 0; }
+.agree { display: flex; gap: 10px; align-items: flex-start; margin: 16px 0 4px; line-height: 1.6; color: var(--ink2); }
+.agree input { width: 20px; height: 20px; margin-top: 3px; flex: none; accent-color: var(--ink); }
+.contact .btn { border: 0; cursor: pointer; font: inherit; font-weight: 600; }
+.report { margin: 8px 0 0; font-size: .92rem; }
+.report a { color: var(--ink2); }
+@media (max-width: 640px) { .contact .form { grid-template-columns: 1fr; } }

diff --git a/sites/calc/assets/app.js b/sites/calc/assets/app.js
@@ -109,6 +109,13 @@
     fit(); let rf; addEventListener('resize', () => { clearTimeout(rf); rf = setTimeout(fit, 160); });
   }
 
+  // 문의하기: 계산기 페이지의 "알려 주세요"(?calc=slug)로 왔으면 관련 계산기를 미리 골라 둔다
+  if (page === 'contact') {
+    const slug = new URLSearchParams(location.search).get('calc'), sel = $('c-calc');
+    const o = slug && sel && qs(`option[data-slug="${CSS.escape(slug)}"]`, sel);
+    if (o) { sel.value = o.value; $('c-kind').value = '계산 오류 제보'; }
+  }
+
   // ── 4. 맨 위로·저장 기록 지우기 ──
   const top = qs('[data-totop]');
   if (top) { addEventListener('scroll', () => top.classList.toggle('on', scrollY > 600), { passive: true }); top.addEventListener('click', () => scrollTo({ top: 0, behavior: 'smooth' })); }

diff --git a/sites/calc/test/calc.test.js b/sites/calc/test/calc.test.js
@@ -226,5 +226,9 @@ EL = C.electricity(350, false, 9, 5);
 check('전기: 350kWh 청구 = (57,790 + 3,150 + 1,750) + 부가세 6,269 + 기금 1,690 → 70,640원', EL.sum === 62690 && EL.vat === 6269 && EL.fund === 1690 && EL.total === 70640, EL);
 check('전기: 200kWh는 1단계, 201kWh는 2단계', C.electricity(200, false, 9, 5).step === 1 && C.electricity(201, false, 9, 5).step === 2);
 
+const PG = require('../pages.js');
+check('사이트맵 제외: 감사 페이지 noindex', PG.find((p) => p.slug === 'contact/thanks').noindex === true);
+check('모든 계산기 FAQ 3개 이상', PG.filter((p) => p.calc).every((p) => (p.faq || []).length >= 3));
+
 console.log(fail ? `\n❌ 실패 ${fail}건` : '\n✅ 전체 통과');
 process.exitCode = fail ? 1 : 0;

diff --git a/sites/calc/test/a11y.test.js b/sites/calc/test/a11y.test.js
@@ -19,7 +19,7 @@ const pages = fs.readdirSync(ROOT, { withFileTypes: true }).filter((d) => d.isDi
   for (const scheme of ['light', 'dark']) {
     const ctx = await browser.newContext({ viewport: { width: 1280, height: 900 }, colorScheme: scheme });
     const page = await ctx.newPage();
-    for (const slug of ['', ...pages]) {
+    for (const slug of ['', ...pages, 'contact/thanks']) {
       await page.goto(`http://localhost:8766/${slug ? slug + '/' : ''}`, { waitUntil: 'networkidle' });
       const r = await new AxeBuilder({ page }).withTags(['wcag2a', 'wcag2aa', 'wcag21a', 'wcag21aa']).exclude('ins.adsbygoogle').analyze();
       const bad = r.violations.filter((v) => ['serious', 'critical'].includes(v.impact));
